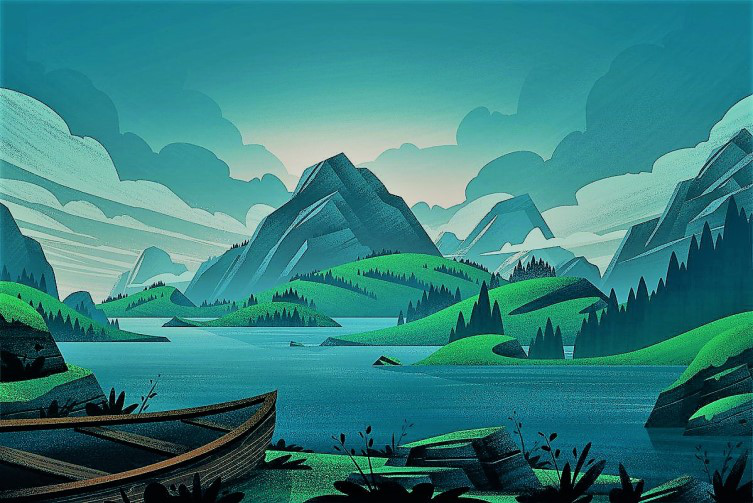
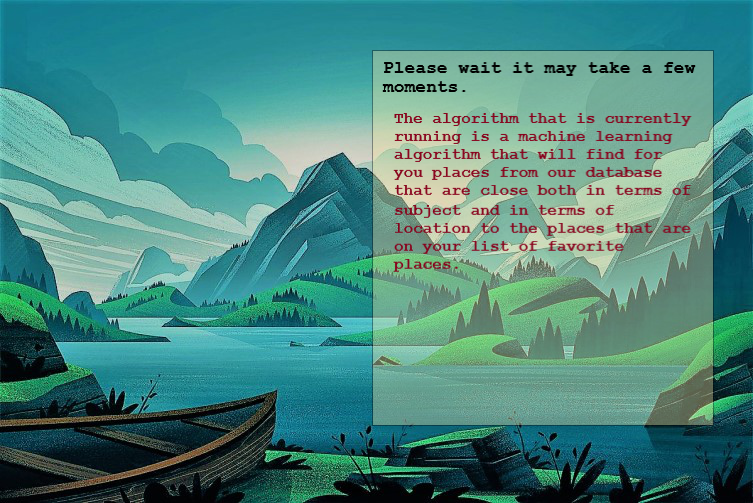
thread in double place page.

diff --git a/View/DoublePlacesPage.py b/View/DoublePlacesPage.py
@@ -5,7 +5,7 @@ from View import StartPage as sp
 from View import UserPage as up
 from Controller import DoublePlacesController as dpc
 from Controller import ResultController as rc
-import asyncio
+from tkinter import ttk
 from View import OverViewButtons as ovb
 import threading
 
@@ -25,7 +25,7 @@ class DoublePlacesPage(tk.Frame):
         # In these functions I will create & place all of the components
         # in the appropriate places, and run logic according to the user's requirements.
         self.canvas = self.background()
-        self.listbox = self.input_output()
+        self.listbox, self.progressbar = self.input_output()
         self.buttons(controller)
 
 
@@ -38,25 +38,24 @@ class DoublePlacesPage(tk.Frame):
 
 
     def input_output(self):
-        self.canvas.create_text(535, 45, fill="red", font=FONT_OUTPUT,
-                                text="- Please wait it may take a few moments.")
-        self.canvas.create_text(535, 65, fill="red", font=FONT_OUTPUT,
-                                text="- Please wait it may take a few moments.")
-        self.canvas.create_text(535, 95, fill="red", font=FONT_OUTPUT,
-                                text="- Please wait it may take a few moments.")
         listbox = Listbox(self,selectmode=MULTIPLE, activestyle='dotbox', font=FONT_LIST)
-        listbox.place(bordermode=OUTSIDE, x=30, y=30, height=400, width=310)
+        listbox.place(bordermode=OUTSIDE, x=30, y=47, height=385, width=310)
+        pb = ttk.Progressbar(self, orient='horizontal', mode='indeterminate')
+        pb.place(bordermode=OUTSIDE, x=415, y=410, height=30, width=250)
+        pb.start()
         x = threading.Thread(target=self.thread_function)
         x.start()
-        return listbox
+        return listbox, pb
 
-
+    
     def thread_function(self):
         data = dpc.DoublePlacesController(sp.username).get_neighbors()
         # Fill the listbox with items
         for item in data:
             self.listbox.insert(END, 'Place ID:' + ' ' + str(item.place_id) + ' '
                            + item.place_name.upper())
+        self.progressbar.destroy()
+
 
     def buttons(self, controller):
         add = tk.Button(self, image=self.addf_img, borderwidth=0, background='black'

diff --git a/View/UserPage.py b/View/UserPage.py
@@ -9,7 +9,6 @@ from View import OverViewButtons as ovb
 
 FONT_OUTPUT = ("Ariel", 10)
 FONT_LIST = ("Ariel", 10, "bold", "underline")
-place_id = None
 
 # This class is responsible for displaying the user page.
 class UserPage(tk.Frame):
@@ -171,9 +170,8 @@ class UserPage(tk.Frame):
 
     def show_info(self, controller):
         # the user wanted to see data about a place in his list, save the place's ID and move it to the appropriate page.
-        global place_id
-        place_id = int(self.listbox.get(ANCHOR).split(' ')[2].strip()) if self.listbox.get(ANCHOR) != '' else None
-        if place_id is None:
+        sp.place_id = int(self.listbox.get(ANCHOR).split(' ')[2].strip()) if self.listbox.get(ANCHOR) != '' else None
+        if sp.place_id is None:
             self.invalid = ovb.create_msg(self, 410, 455, 'Please select place\n''from the list box.')
         else:
             controller.manage_frame(rp.ResultPage)
